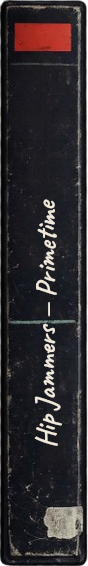
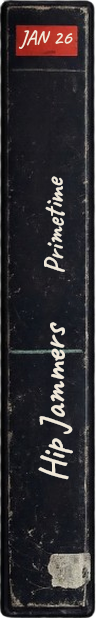
Add swipe-to-close gesture and improve peek tab design
- Add touch swipe detection to close peek panel (right swipe > 80px)
- Update peek tab images: add "JAN 26" date label, larger fonts, gap between league/round names
- Move peek tab higher on screen (top: 35% instead of 50%)

🤖 Generated with [Claude Code](https://claude.com/claude-code)

diff --git a/web/src/components/pinned-peek/PeekPanel.tsx b/web/src/components/pinned-peek/PeekPanel.tsx
@@ -1,4 +1,4 @@
-import { useEffect, useState } from "react";
+import { useEffect, useState, useRef, useCallback } from "react";
 import clsx from "clsx";
 import SongCard from "./SongCard";
 import AIAssistant from "./AIAssistant";
@@ -108,6 +108,36 @@ export default function PeekPanel({
   const [isTimelineGameOpen, setIsTimelineGameOpen] = useState(false);
   const [isRoundChallengeOpen, setIsRoundChallengeOpen] = useState(false);
 
+  // Swipe-to-close state
+  const panelRef = useRef<HTMLElement>(null);
+  const touchStartX = useRef<number | null>(null);
+  const touchStartY = useRef<number | null>(null);
+
+  const handleTouchStart = useCallback((e: React.TouchEvent) => {
+    touchStartX.current = e.touches[0].clientX;
+    touchStartY.current = e.touches[0].clientY;
+  }, []);
+
+  const handleTouchEnd = useCallback((e: React.TouchEvent) => {
+    if (touchStartX.current === null || touchStartY.current === null) return;
+
+    const touchEndX = e.changedTouches[0].clientX;
+    const touchEndY = e.changedTouches[0].clientY;
+    const deltaX = touchEndX - touchStartX.current;
+    const deltaY = touchEndY - touchStartY.current;
+
+    // Require horizontal swipe: deltaX > 80px and more horizontal than vertical
+    const isHorizontalSwipe = Math.abs(deltaX) > Math.abs(deltaY);
+    const isRightSwipe = deltaX > 80;
+
+    if (isHorizontalSwipe && isRightSwipe) {
+      onClose();
+    }
+
+    touchStartX.current = null;
+    touchStartY.current = null;
+  }, [onClose]);
+
   // Submitter guess state
   const isRevealed = round?.status === "revealed";
   const showGuessUI = submitterGuessEnabled && (round?.status === "voting" || round?.status === "revealed");
@@ -207,11 +237,14 @@ export default function PeekPanel({
 
       {/* Panel */}
       <aside
+        ref={panelRef}
         className={clsx("peek-panel", isOpen && "open")}
         role="dialog"
         aria-modal="true"
         aria-label="Round details"
         aria-hidden={!isOpen}
+        onTouchStart={handleTouchStart}
+        onTouchEnd={handleTouchEnd}
       >
         {/* Header with banner */}
         <div className="peek-panel-header">

diff --git a/web/src/App.css b/web/src/App.css
@@ -3463,7 +3463,7 @@
 .peek-tab {
   position: fixed;
   right: 0;
-  top: 50%;
+  top: 35%;
   transform: translateY(-50%) translateX(6px);
   z-index: 40;
   padding: 0;
@@ -3526,6 +3526,13 @@
   }
   50% {
     transform: translateY(-50%) translateX(0);
+  }
+}
+
+/* Peek Tab positioning adjustment for short screens */
+@media (max-height: 700px) {
+  .peek-tab {
+    top: 30%;
   }
 }
 
